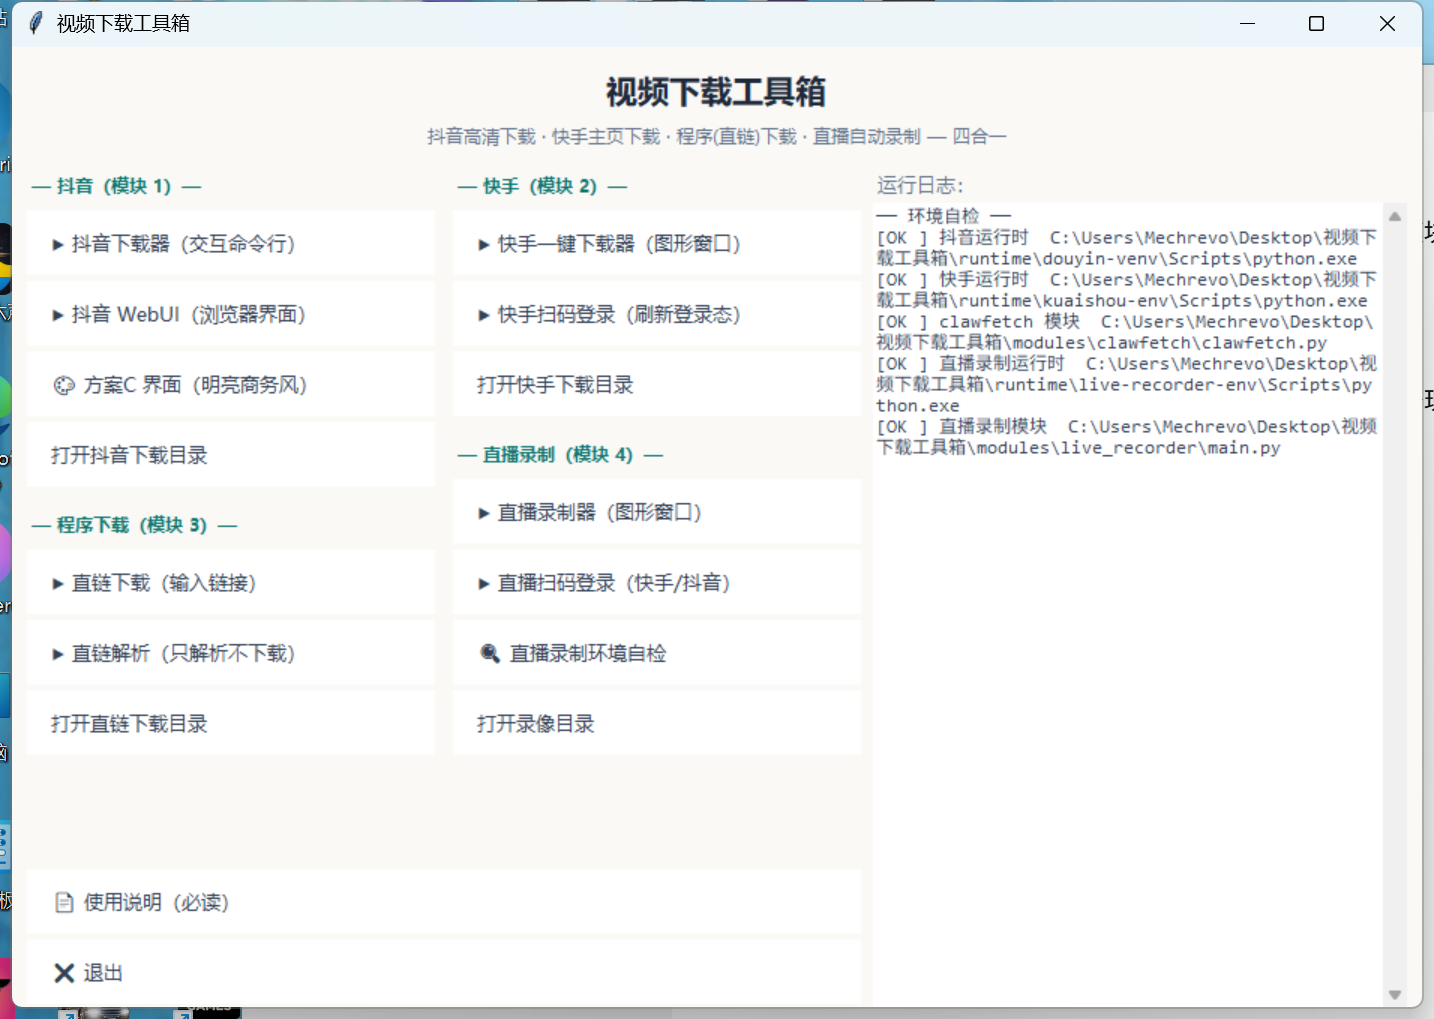
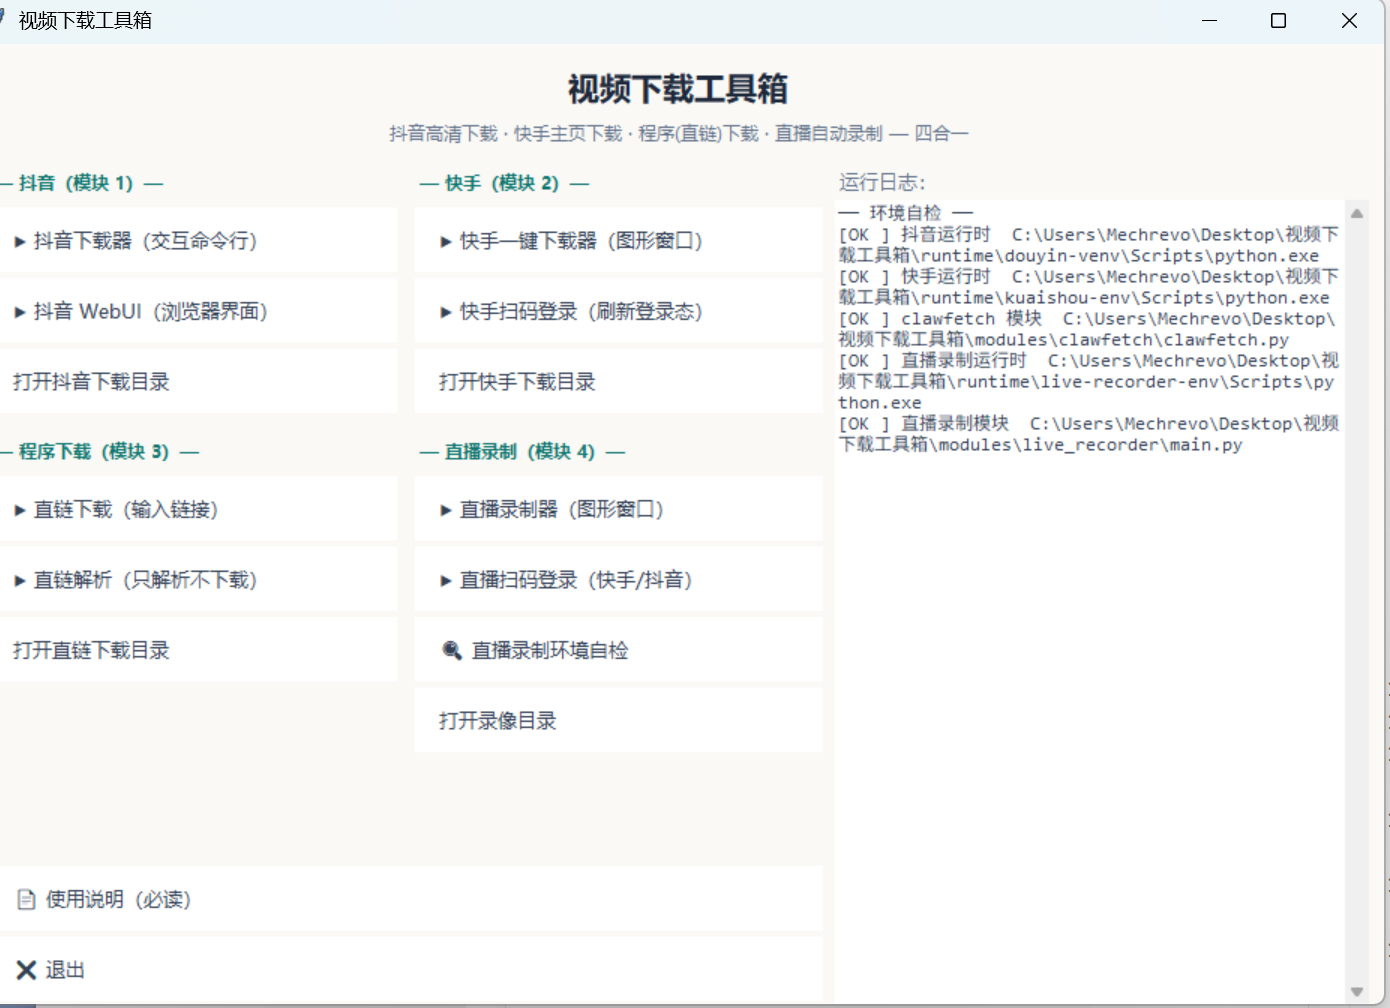
清理失效的「方案C 界面」入口
菜单里的「🎨 方案C 界面（明亮商务风）」指向 /plan-c 路由，而该路由读取的
设计稿目录「方案C-明亮商务风」已不存在（全盘查找无结果），实测 /plan-c 返回 404，
按钮点了必然打不开。

- toolbox.py：删掉该菜单按钮与已无调用者的 dy_planc()；主题注释去掉“方案C”字样
- bridge_server.py：删掉 h_planc_index() 与 4 条 /plan-c* 死路由
- docs/toolbox-menu.png：更新为清理后的界面截图
- docs/验证台账.md：新增 K 段记录

保留：planc-home.css/js（当前工作台首页的真实实现，仍是默认页）、
ops/open-plan-c.vbs（实际打开 / 首页）、ops/planc.ico

验证：自检 29/29；菜单按钮 14→13；重启常驻服务后 / 及各首页资源 200、
/plan-c* 全部 404；菜单截图确认按钮消失且布局无空洞

diff --git a/toolbox.py b/toolbox.py
@@ -52,7 +52,7 @@ def _open(path):
 
 
 class Toolbox:
-    # 「方案C-明亮商务风」主题（与 WebUI tokens.css 同源）
+    # 「明亮商务风」主题（与 WebUI tokens.css 同源）
     C_BG = "#FAF9F6"        # 暖白底
     C_CARD = "#FFFFFF"      # 卡片白
     C_PRIMARY = "#0D9488"   # 青碧主色
@@ -162,7 +162,6 @@ class Toolbox:
         m1 = block(col_a, "— 抖音（模块 1）—")
         btn(m1, "▶ 抖音下载器（交互命令行）", self.dy_cli, "粘贴抖音链接批量下载视频/图集；支持登录、增量、多模式")
         btn(m1, "▶ 抖音 WebUI（浏览器界面）", self.dy_webui, "本地网页界面，查看库、发起下载（127.0.0.1:8518）")
-        btn(m1, "🎨 方案C 界面（明亮商务风）", self.dy_planc, "直接使用合并后的方案C页面（需 WebUI 服务在运行；开机自启）")
         btn(m1, "打开抖音下载目录", lambda: _open(os.path.join(HERE, "downloads", "douyin")))
 
         m3 = block(col_a, "— 程序下载（模块 3）—")
@@ -260,13 +259,6 @@ class Toolbox:
             cwd=os.path.join(MODULES, "douyin"),
             after=lambda: self._open_browser("http://127.0.0.1:8518"),
         )
-
-    def dy_planc(self):
-        """直接打开合并后的方案C界面（常驻服务 /plan-c 直达）"""
-        import webbrowser
-        self.say("打开方案C界面：http://127.0.0.1:8518/plan-c")
-        threading.Timer(0.5, lambda: webbrowser.open("http://127.0.0.1:8518/plan-c")).start()
-        self.say("提示：服务由计划任务 DouzyWebUI 常驻；若未运行，先点「抖音 WebUI」或执行 ops\\deploy-douzy-webui.ps1 -Restart")
 
     # ---------- 快手 ----------
     def ks_gui(self):

diff --git a/modules/douyin/webui/bridge_server.py b/modules/douyin/webui/bridge_server.py
@@ -398,26 +398,10 @@ async def h_index(req):
     return web.FileResponse(os.path.join(HERE, "index.html"))
 
 
-async def h_planc_index(req):
-    """方案C-明亮商务风首页（直接使用合并后的设计稿，逐字节原样）"""
-    planc = os.path.normpath(os.path.join(
-        HERE, "..", "..", "..", "方案C-明亮商务风", "01-首页工作台.html"))
-    return web.FileResponse(planc, headers={"Cache-Control": "no-cache"})
-
-
 def make_app():
     app = web.Application(client_max_size=2 * 1024 * 1024)
     app.router.add_get("/", h_index)
     app.router.add_get("/index.html", h_index)
-    # 方案C设计稿直达路由（直接使用合并后的版本；项目根定位用 HERE 相对爬升，免疫 junction 路径差异）
-    _planc_dir = os.path.normpath(os.path.join(HERE, "..", "..", "..", "方案C-明亮商务风"))
-    app.router.add_static("/plan-c/static/", _planc_dir)
-    app.router.add_get("/plan-c", h_planc_index)
-    app.router.add_get("/plan-c/", h_planc_index)
-    # 页内相对链接（01.html ↔ 02.html 等）经重定向规则映射到 static/ 下
-    async def h_planc_redirect(req):
-        raise web.HTTPFound("/plan-c/static/" + req.match_info["name"])
-    app.router.add_get("/plan-c/{name}", h_planc_redirect)
     app.router.add_static("/assets/", os.path.join(HERE, "assets"))
     app.router.add_get("/docs/", lambda req: web.FileResponse(
         os.path.join(HERE, "docs", "assets", "arch-diagram.png")))

diff --git a/docs/验证台账.md b/docs/验证台账.md
@@ -263,3 +263,58 @@ LOLBin 拦截，`os.startfile()` 走 ShellExecute 打开 `.vbs` 同样被拦。
 
 > 待用户首次双击 `启动工具箱.vbs` 确认无闪烁即闭环；万一 vbs 因系统禁用
 > Windows Script Host 而无法运行，改用 `启动工具箱.bat` 即可（功能完全相同）。
+
+---
+
+## K. 清理失效的「方案C 界面」入口（2026-09-23 21:05–21:15）
+
+### K1. 为什么它是"没用的"
+
+菜单里的 `🎨 方案C 界面（明亮商务风）` 打开的是 `http://127.0.0.1:8518/plan-c`，
+而该路由响应 `项目根\方案C-明亮商务风\01-首页工作台.html` ——
+**这个目录在任何位置都不存在**（`Desktop` 与 `WorkBuddy` 下全盘 `find` 无结果；
+桌面那个同类的设计稿文件夹叫 `视频下载工具箱-UI设计方案\方案C-暖沙手帐`，名字不同）。
+实测请求：
+
+| 请求 | 结果 |
+|---|---|
+| `GET /` | ✅ 200（工作台首页正常） |
+| `GET /plan-c` | ❌ **404** |
+| `GET /plan-c/` | ❌ **404** |
+
+即：按钮真实存在，但点了**必然打不开**。
+
+### K2. 改动（3 处，均在代码/资源层）
+
+| 文件 | 改动 |
+|---|---|
+| `toolbox.py` | 删掉菜单按钮 `🎨 方案C 界面`；删掉已无调用者的 `Toolbox.dy_planc()` 方法；主题注释去掉"方案C"字样（保留"明亮商务风"，它只是配色来源说明） |
+| `modules\douyin\webui\bridge_server.py` | 删掉 `h_planc_index()`，以及 `/plan-c`、`/plan-c/`、`/plan-c/static/`、`/plan-c/{name}` 4 条死路由与其重定向闭包 |
+| `docs\toolbox-menu.png` | 更新为清理后的实际界面截图 |
+
+### K3. 明确**保留**的东西（名字带 planc，但都是活的）
+
+| 对象 | 为什么不能删 |
+|---|---|
+| `assets\css\planc-home.css`、`assets\js\pages\planc-home.js` | 是**当前工作台首页**的真实实现，被 `index.html` 直接引用（`config.js` 里 `planc-home` 还是 `default: true` 的默认页）。"planc" 只是历史命名 |
+| `ops\open-plan-c.vbs` | 名为 plan-c，实际打开的是 `/`（合并后的工作台首页），不是静态设计稿 —— 其文件注释已写明 |
+| `ops\planc.ico` | 桌面快捷方式图标 |
+
+### K4. 验证
+
+| 验证项 | 方法 | 结果 |
+|---|---|---|
+| 代码残留 | `grep -n "planc\|plan-c\|方案C"` 两个文件 | ✅ `bridge_server.py` 零命中；`toolbox.py` 只剩主题注释（已改写） |
+| 语法 | `py_compile` 两个文件 | ✅ 均通过 |
+| 菜单按钮数 | `grep -c 'btn(m'` | 14 → **13** |
+| 界面实测 | 关闭旧实例（它加载的还是改前代码）→ 用新代码重启 → 截图 | ✅ 「🎨 方案C 界面」按钮**已消失**；其余 12 个按钮与整体布局不变、无空洞 |
+| 路由回归 | 重启常驻服务（`deploy-douzy-webui.ps1 -Restart`）后逐个请求 | ✅ `/` 200、`/index.html` 200、`/assets/css/planc-home.css` 200、`/assets/js/pages/planc-home.js` 200、`/api/bridge/health` 200；`/plan-c`、`/plan-c/`、`/plan-c/static/*` 均 404 |
+| 回归自检 | `tests\selftest.py` | ✅ **29/29** |
+
+> **两条环境笔记**（下次少走弯路）：
+> ① 从本会话 shell 里 `Popen` 启动 GUI 子进程，命令一结束子进程就被宿主回收
+> （进程消失、窗口枚举不到），很容易误判成"程序起不来"。改用**后台常驻任务**方式
+> 启动（宿主存活期间子进程也活着）才稳定。
+> ② 截图验证前必须先确认截到的是**新代码**的实例：用户可能还开着改代码前启动的旧窗口，
+> 那个界面里按钮还在 —— 直接截它会得出与事实相反的结论。
+
